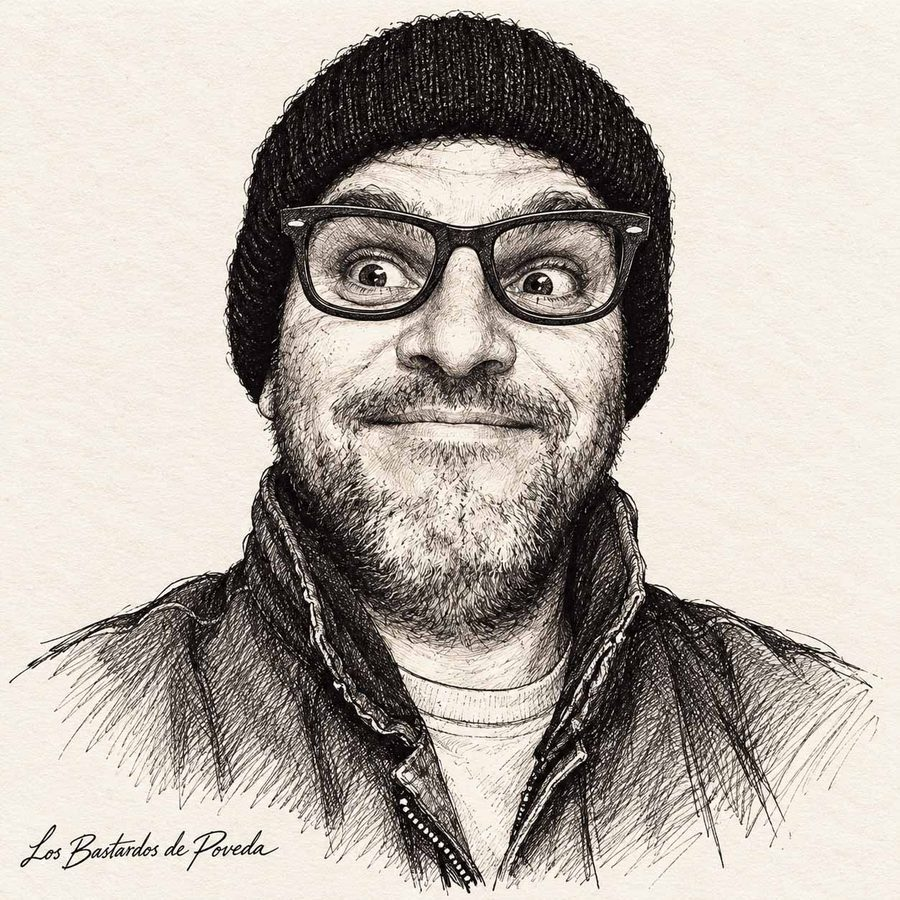
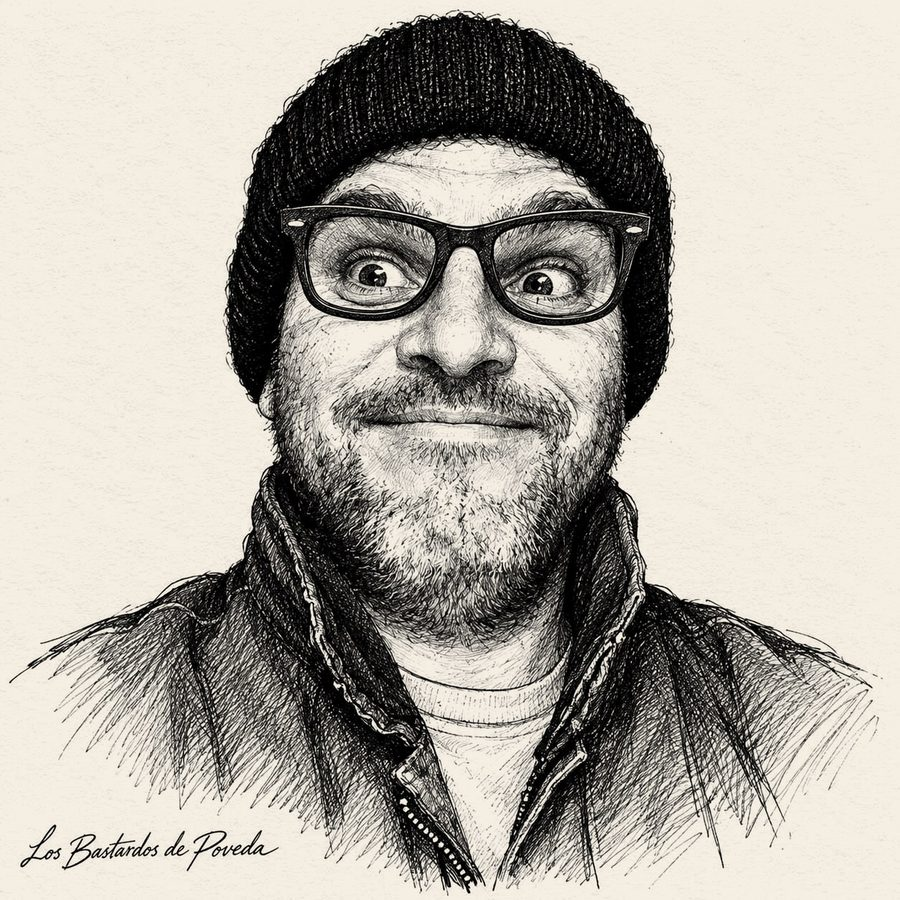
Retratos de Los Bastardos de Poveda con el tono unificado (papel #F4EEE3)
Claude-Session: https://claude.ai/code/session_019iEvRWQmd9Sra3sYz9LrJg

Changed region(s): [[0.3733, 0.28, 0.4044, 0.3111]]

diff --git a/mesa-2027/podcast/index.html b/mesa-2027/podcast/index.html
@@ -618,7 +618,7 @@ a.pc-play{text-decoration:none}
 .pc-retratos__cab span{font:11px var(--ar-rot);letter-spacing:.14em;text-transform:uppercase;color:var(--ar-gris)}
 .pc-retratos ol{list-style:none;margin:0;padding:0;display:grid;grid-template-columns:repeat(3,minmax(0,1fr));gap:28px 24px}
 .pc-ret{scroll-margin-top:80px;display:flex;flex-direction:column;gap:12px;min-width:0}
-.pc-ret figure{margin:0;border:1px solid var(--ar-linea);background:#f1ece2}
+.pc-ret figure{margin:0;border:1px solid var(--ar-linea);background:#f4eee3}
 .pc-ret img{display:block;width:100%;height:auto;aspect-ratio:1}
 .pc-ret__txt{display:flex;flex-direction:column;gap:4px;min-width:0}
 .pc-ret__nn{font:700 10.5px var(--ar-rot);letter-spacing:.16em;text-transform:uppercase;color:var(--ar-acento)}

diff --git a/mesa-2027/index.html b/mesa-2027/index.html
@@ -230,8 +230,8 @@ html #ficha.abierta{transform:translate3d(0,var(--dy,0px),0)}
 
 /* ---------- estación de Los Bastardos de Poveda: el retrato se ve completo ---------- */
 @media (min-width:760px){#ficha.retrato .ficha-foto{aspect-ratio:1;width:min(100%,36vh);margin:0 auto}#ficha{max-height:calc(100% - 24px);overflow-y:auto}}
-#ficha.retrato .ficha-foto img{object-fit:contain;filter:none;background:#f1ece2}
-#ficha.retrato .ficha-foto{background:#f1ece2}
+#ficha.retrato .ficha-foto img{object-fit:contain;filter:none;background:#f4eee3}
+#ficha.retrato .ficha-foto{background:#f4eee3}
 
 /* ---------- Los Bastardos de Poveda: ficha naranja, señal mostaza, punto rosa ---------- */
 :root{--bp-naranja:#d9621f;--bp-papel:#f6d6b3;--bp-mostaza:#c99a1c;--bp-rosa:#e8709a}

diff --git a/mesa-2027/plana.html b/mesa-2027/plana.html
@@ -229,8 +229,8 @@ html #ficha.abierta{transform:translate3d(0,var(--dy,0px),0)}
 
 /* ---------- estación de Los Bastardos de Poveda: el retrato se ve completo ---------- */
 @media (min-width:760px){#ficha.retrato .ficha-foto{aspect-ratio:1;width:min(100%,36vh);margin:0 auto}#ficha{max-height:calc(100% - 24px);overflow-y:auto}}
-#ficha.retrato .ficha-foto img{object-fit:contain;filter:none;background:#f1ece2}
-#ficha.retrato .ficha-foto{background:#f1ece2}
+#ficha.retrato .ficha-foto img{object-fit:contain;filter:none;background:#f4eee3}
+#ficha.retrato .ficha-foto{background:#f4eee3}
 
 /* ---------- Los Bastardos de Poveda: ficha naranja, señal mostaza, punto rosa ---------- */
 :root{--bp-naranja:#d9621f;--bp-papel:#f6d6b3;--bp-mostaza:#c99a1c;--bp-rosa:#e8709a}
